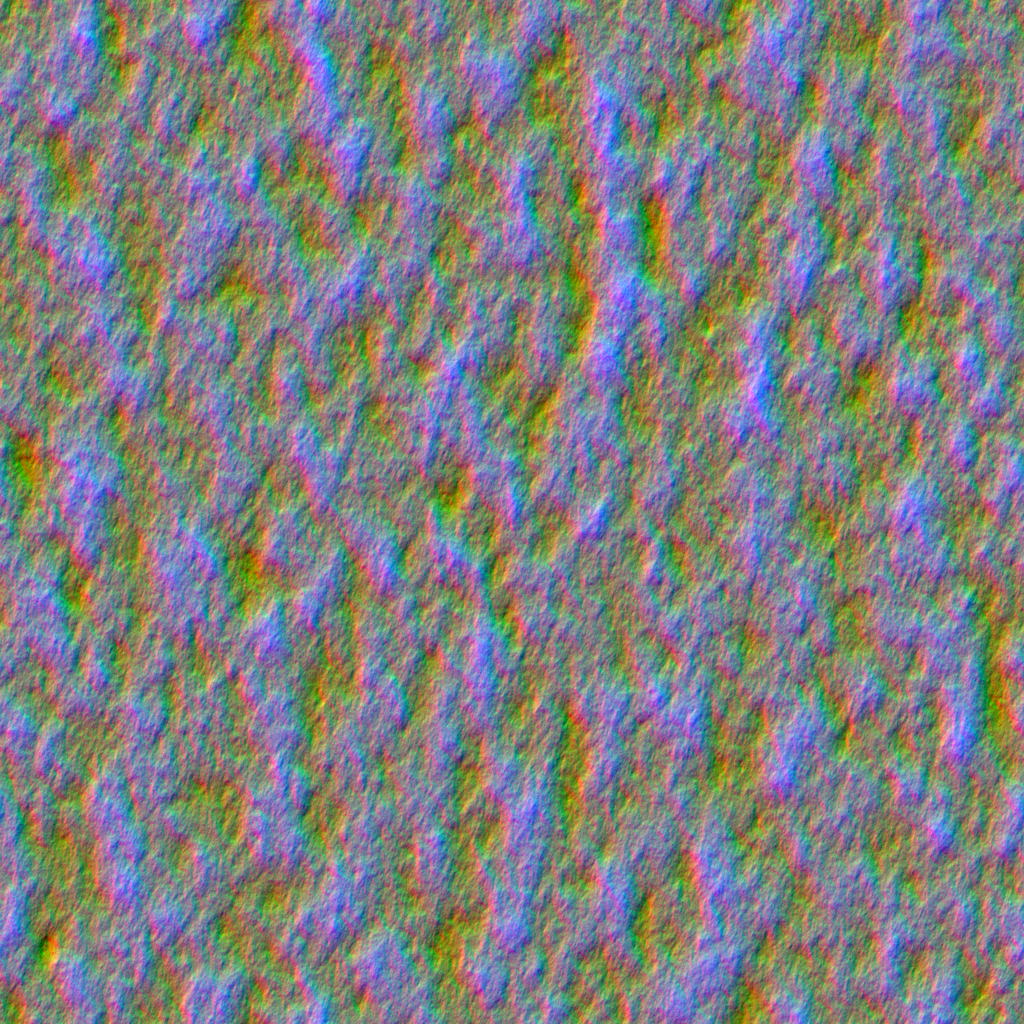
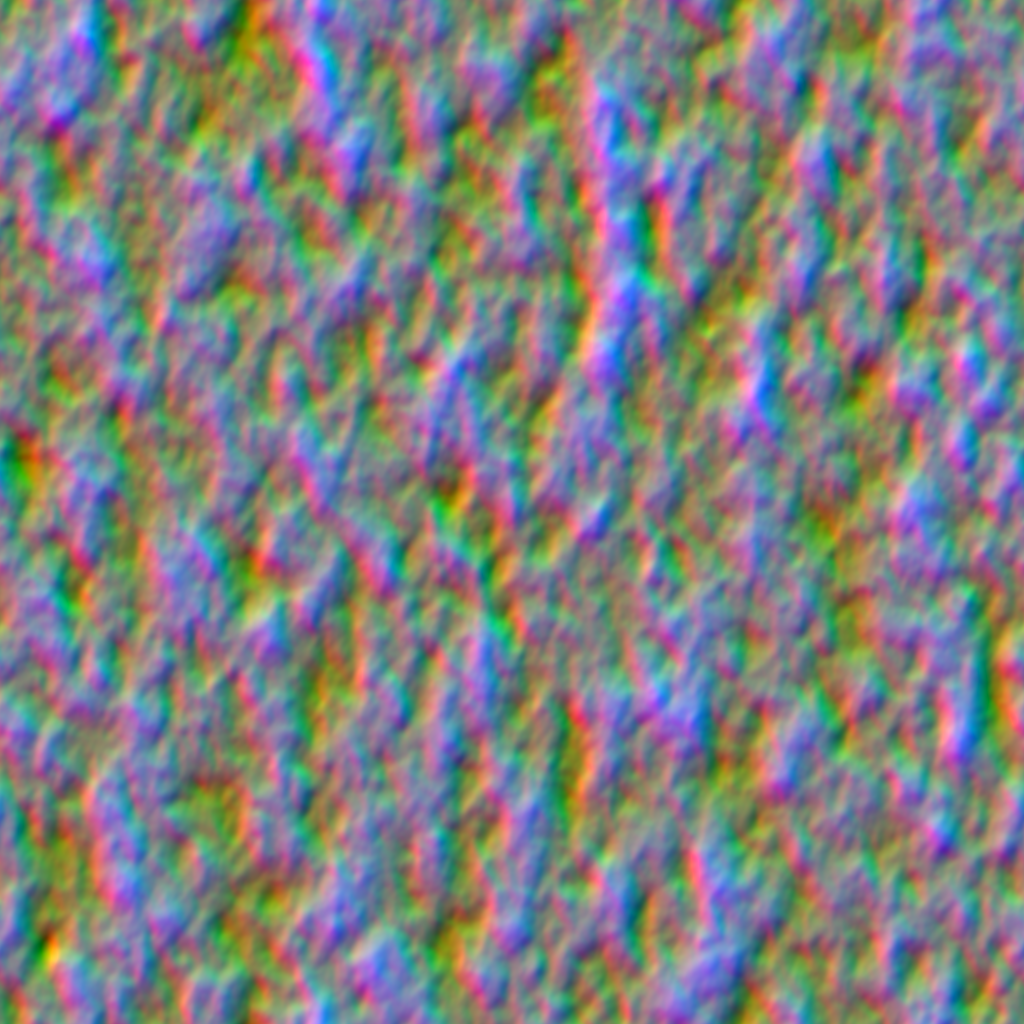
Animate ocean wave bands at dispersive speeds

diff --git a/Native/Tests/EarthRenderTests.mm b/Native/Tests/EarthRenderTests.mm
@@ -22,7 +22,7 @@ int main(){@autoreleasepool{
     MTKTextureLoader *loader=[[MTKTextureLoader alloc] initWithDevice:device];
     auto load=[&](NSString *path,bool srgb){id<MTLTexture> t=[loader newTextureWithContentsOfURL:[NSURL fileURLWithPath:[root stringByAppendingPathComponent:path]] options:@{MTKTextureLoaderOptionSRGB:@(srgb),MTKTextureLoaderOptionGenerateMipmaps:@YES,MTKTextureLoaderOptionOrigin:MTKTextureLoaderOriginTopLeft} error:&error];
         if(!t)fprintf(stderr,"Texture %s: %s\n",path.UTF8String,error.localizedDescription.UTF8String);require(t!=nil,"Texture load failed");return t;};
-    id<MTLTexture> earth=load(@"Native/Assets/earth-8k.jpg",true),cloudMap=load(@"Native/Assets/earth-clouds.png",false),ocean=load(@"Native/Assets/earth-ocean-mask.png",false),oceanWaves=load(@"Native/Assets/earth-waves.png",false);
+    id<MTLTexture> earth=load(@"Native/Assets/earth-8k.jpg",true),cloudMap=load(@"Native/Assets/earth-clouds.png",false),ocean=load(@"Native/Assets/earth-ocean-mask.png",false),oceanWaves=load(@"Native/Assets/earth-waves.png",false),oceanDetail=load(@"Native/Assets/earth-waves-detail.png",false);
     require(cloudMap.width==8192&&cloudMap.height==4096,"Cloud map must retain its 8K source detail");
     const NSUInteger width=NSProcessInfo.processInfo.environment[@"ORBITER_WIDE_PREVIEW"]?1280:640;
     const NSUInteger height=NSProcessInfo.processInfo.environment[@"ORBITER_WIDE_PREVIEW"]?800:640;
@@ -43,7 +43,7 @@ int main(){@autoreleasepool{
     id<MTLTexture> surfaceMask=ocean,activeCloudMap=cloudMap;
     auto render=[&](float coverage){f.clouds={1800,6500,coverage,0};id<MTLCommandBuffer> cb=[queue commandBuffer];
         MTLRenderPassDescriptor *pass=[MTLRenderPassDescriptor renderPassDescriptor];pass.colorAttachments[0].texture=scene;pass.colorAttachments[0].loadAction=MTLLoadActionClear;pass.colorAttachments[0].storeAction=MTLStoreActionStore;pass.depthAttachment.texture=depth;pass.depthAttachment.loadAction=MTLLoadActionClear;pass.depthAttachment.clearDepth=0;pass.depthAttachment.storeAction=MTLStoreActionStore;
-        id<MTLRenderCommandEncoder> e=[cb renderCommandEncoderWithDescriptor:pass];[e setDepthStencilState:depthState];[e setRenderPipelineState:sky];[e setFragmentBytes:&f length:sizeof(f) atIndex:1];[e setFragmentTexture:earth atIndex:0];[e setFragmentTexture:white atIndex:1];[e setFragmentTexture:white atIndex:2];[e setFragmentTexture:surfaceMask atIndex:3];[e setFragmentTexture:activeCloudMap atIndex:4];[e setFragmentTexture:oceanWaves atIndex:5];[e drawPrimitives:MTLPrimitiveTypeTriangle vertexStart:0 vertexCount:3];[e endEncoding];
+        id<MTLRenderCommandEncoder> e=[cb renderCommandEncoderWithDescriptor:pass];[e setDepthStencilState:depthState];[e setRenderPipelineState:sky];[e setFragmentBytes:&f length:sizeof(f) atIndex:1];[e setFragmentTexture:earth atIndex:0];[e setFragmentTexture:white atIndex:1];[e setFragmentTexture:white atIndex:2];[e setFragmentTexture:surfaceMask atIndex:3];[e setFragmentTexture:activeCloudMap atIndex:4];[e setFragmentTexture:oceanWaves atIndex:5];[e setFragmentTexture:oceanDetail atIndex:6];[e drawPrimitives:MTLPrimitiveTypeTriangle vertexStart:0 vertexCount:3];[e endEncoding];
         pass=[MTLRenderPassDescriptor renderPassDescriptor];pass.colorAttachments[0].texture=output;pass.colorAttachments[0].loadAction=MTLLoadActionClear;pass.colorAttachments[0].storeAction=MTLStoreActionStore;
         e=[cb renderCommandEncoderWithDescriptor:pass];[e setRenderPipelineState:composite];[e setFragmentBytes:&f length:sizeof(f) atIndex:0];[e setFragmentTexture:scene atIndex:0];[e setFragmentTexture:zero atIndex:1];[e setFragmentTexture:data atIndex:2];[e setFragmentTexture:depth atIndex:3];[e setFragmentTexture:activeCloudMap atIndex:4];[e setFragmentTexture:cloudNoise atIndex:5];[e drawPrimitives:MTLPrimitiveTypeTriangle vertexStart:0 vertexCount:3];[e endEncoding];[cb commit];[cb waitUntilCompleted];
         if(cb.error)fprintf(stderr,"Render error: %s\n",cb.error.localizedDescription.UTF8String);require(cb.error==nil,"Earth render failed");std::vector<unsigned char> pixels(width*height*4);[output getBytes:pixels.data() bytesPerRow:width*4 fromRegion:MTLRegionMake2D(0,0,width,height) mipmapLevel:0];return pixels;};
@@ -108,6 +108,9 @@ int main(){@autoreleasepool{
     surfaceMask=white;auto water1=render(0);f.environment.w=4;auto water2=render(0);
     size_t waves=0;for(size_t i=0;i<water1.size();i+=4)if(abs(int(water1[i])-int(water2[i]))>2)++waves;
     require(waves>1000,"Ocean waves must animate");
+    f.environment.w=86401;auto nextDay=render(0);size_t discontinuous=0;
+    for(size_t i=0;i<water1.size();i+=4)if(abs(int(water1[i])-int(nextDay[i]))>2)++discontinuous;
+    require(discontinuous<width*height/50,"Wave motion remains continuous when the daily visual clock wraps");
     surfaceMask=zero;f.environment.w=1;auto land1=render(0);f.environment.w=4;auto land2=render(0);
     require(land1==land2,"Animated waves must not affect land");
     surfaceMask=ocean;f.environment.w=1;auto mappedWater1=render(0);f.environment.w=4;auto mappedWater2=render(0);

diff --git a/Native/tools/generate_ocean_spectrum.py b/Native/tools/generate_ocean_spectrum.py
@@ -1,9 +1,10 @@
 #!/usr/bin/env python3
-"""Generate a seamless spectral ocean slope/height tile for the Metal water shader.
+"""Generate two seamless, directional ocean wave spectra for Metal.
 
-Usage: python3 generate_ocean_spectrum.py OUTPUT.png
-A fixed random seed and a directional, band-limited k^-4 spectrum make this
-reproducible. R/G store the two surface slopes; B stores wave height.
+Usage: python3 generate_ocean_spectrum.py LONG.png SHORT.png
+R/G store surface slopes and B stores wave height. The two bands and their
+scaled variants travel at distinct speeds in the shader. A fixed seed makes
+the generated assets reproducible.
 """
 import sys
 import numpy as np
@@ -11,23 +12,25 @@ from PIL import Image
 
 size, length = 1024, 16000.0
 rng = np.random.default_rng(2010)
-k = 2 * np.pi * np.fft.fftfreq(size, d=length / size)
-kx, ky = np.meshgrid(k, k)
-wave_number = np.hypot(kx, ky)
-safe = np.maximum(wave_number, 1e-9)
-long_cutoff, short_cutoff = 2*np.pi/1500, 2*np.pi/45
-# Wind direction is mostly east-west; opposing waves remain possible.
-directional = .12 + .88 * (kx/safe)**4
-power = np.exp(-(long_cutoff/safe)**2-(safe/short_cutoff)**2)*directional/safe**4
-power[0, 0] = 0
-spectrum = np.fft.fft2(rng.standard_normal((size,size))) * np.sqrt(power)
-height = np.fft.ifft2(spectrum).real
-dx = np.fft.ifft2(1j*kx*spectrum).real
-dy = np.fft.ifft2(1j*ky*spectrum).real
-# Each channel has room for rare large crests without clipping most waves.
-slope_scale = max(dx.std(), dy.std())*6
-channels = [np.clip(.5 + dx/slope_scale,0,1),
-            np.clip(.5 + dy/slope_scale,0,1),
-            np.clip(.5 + height/(height.std()*6),0,1)]
-pixels = np.uint8(np.round(np.stack(channels,axis=-1)*255))
-Image.fromarray(pixels).save(sys.argv[1],optimize=True)
+k = 2*np.pi*np.fft.fftfreq(size,d=length/size)
+kx,ky = np.meshgrid(k,k)
+wave_number = np.hypot(kx,ky)
+safe = np.maximum(wave_number,1e-9)
+directional = .12+.88*(kx/safe)**4
+
+for wavelength,path in [(800.0,sys.argv[1]),(180.0,sys.argv[2])]:
+    peak = 2*np.pi/wavelength
+    # Narrow, overlapping bands allow each scale to move at its own speed.
+    band = np.exp(-.5*(np.log(safe/peak)/.58)**2)
+    power = band*directional/safe**4
+    power[0,0] = 0
+    spectrum = np.fft.fft2(rng.standard_normal((size,size)))*np.sqrt(power)
+    height = np.fft.ifft2(spectrum).real
+    dx = np.fft.ifft2(1j*kx*spectrum).real
+    dy = np.fft.ifft2(1j*ky*spectrum).real
+    slope_scale = max(dx.std(),dy.std())*6
+    channels = [np.clip(.5+dx/slope_scale,0,1),
+                np.clip(.5+dy/slope_scale,0,1),
+                np.clip(.5+height/(height.std()*6),0,1)]
+    pixels = np.uint8(np.round(np.stack(channels,axis=-1)*255))
+    Image.fromarray(pixels).save(path,optimize=True)

diff --git a/Native/macOS/NativeVisuals.mm b/Native/macOS/NativeVisuals.mm
@@ -15,7 +15,7 @@ struct SmokeDraw {TrailSegmentUniforms segment;float depth;};
     FrameUniforms lastFrame;
     double lastElapsed;
     NSInteger lastWeather;
-    id<MTLTexture> hdr,lit,depth,trailLayer,msaaColor,msaaDepth,earthCloudMap,earthOceanMask,earthOceanWaves;
+    id<MTLTexture> hdr,lit,depth,trailLayer,msaaColor,msaaDepth,earthCloudMap,earthOceanMask,earthOceanWaves,earthOceanWaveDetail;
     std::array<id<MTLTexture>,2> cloudHistory,cloudData,bloom;
     std::array<id<MTLBuffer>,3> smokeBuffers;
     ExhaustTrail exhaustTrail;
@@ -39,6 +39,9 @@ struct SmokeDraw {TrailSegmentUniforms segment;float depth;};
     NSURL *waveURL=[NSURL fileURLWithPath:[NSBundle.mainBundle.resourcePath stringByAppendingPathComponent:@"earth-waves.png"]];
     earthOceanWaves=[loader newTextureWithContentsOfURL:waveURL options:@{MTKTextureLoaderOptionSRGB:@NO,MTKTextureLoaderOptionGenerateMipmaps:@YES,MTKTextureLoaderOptionOrigin:MTKTextureLoaderOriginTopLeft} error:&error];
     visualCheck(earthOceanWaves,error);
+    NSURL *detailURL=[NSURL fileURLWithPath:[NSBundle.mainBundle.resourcePath stringByAppendingPathComponent:@"earth-waves-detail.png"]];
+    earthOceanWaveDetail=[loader newTextureWithContentsOfURL:detailURL options:@{MTKTextureLoaderOptionSRGB:@NO,MTKTextureLoaderOptionGenerateMipmaps:@YES,MTKTextureLoaderOptionOrigin:MTKTextureLoaderOriginTopLeft} error:&error];
+    visualCheck(earthOceanWaveDetail,error);
     auto kernel=[&](NSString *name){id<MTLComputePipelineState> p=[gpu newComputePipelineStateWithFunction:[library newFunctionWithName:name] error:&error];visualCheck(p,error);return p;};
     noiseKernel=kernel(@"makeCloudNoise");shadowKernel=kernel(@"cloudShadowMap");cloudKernel=kernel(@"marchClouds");
     extractKernel=kernel(@"extractBloom");blurKernel=kernel(@"blurBloom");
@@ -197,6 +200,7 @@ struct SmokeDraw {TrailSegmentUniforms segment;float depth;};
 - (id<MTLTexture>)satelliteClouds {return earthCloudMap;}
 - (id<MTLTexture>)oceanMask {return earthOceanMask;}
 - (id<MTLTexture>)oceanWaves {return earthOceanWaves;}
+- (id<MTLTexture>)oceanWaveDetail {return earthOceanWaveDetail;}
 - (NSUInteger)liveTrailPuffCount {return exhaustTrail.puffs().size();}
 - (NSString *)weatherName{return @[@"Clear",@"Scattered",@"Overcast",@"Storm",@"Regional"][_weather];}
 - (void)reset {historyValid=NO;haveFlight=NO;exhaustTrail.reset();}

diff --git a/Native/macOS/App.mm b/Native/macOS/App.mm
@@ -520,7 +520,7 @@ static void line(CGFloat x,CGFloat y,CGFloat x2,CGFloat y2,NSColor *color,CGFloa
     [encoder setFragmentBytes:&uniforms length:sizeof(uniforms) atIndex:1]; [encoder setFragmentTexture:[solar textureForBody:flight.reference] atIndex:0];
     [encoder setFragmentTexture:solar.rings atIndex:2];
     [encoder setFragmentTexture:visuals.cloudShadows atIndex:1];
-    [encoder setFragmentTexture:[visuals oceanMask] atIndex:3];[encoder setFragmentTexture:[visuals satelliteClouds] atIndex:4];[encoder setFragmentTexture:[visuals oceanWaves] atIndex:5];
+    [encoder setFragmentTexture:[visuals oceanMask] atIndex:3];[encoder setFragmentTexture:[visuals satelliteClouds] atIndex:4];[encoder setFragmentTexture:[visuals oceanWaves] atIndex:5];[encoder setFragmentTexture:[visuals oceanWaveDetail] atIndex:6];
     [encoder drawPrimitives:MTLPrimitiveTypeTriangle vertexStart:0 vertexCount:3];
     [encoder setDepthStencilState:depthState];
     [solar encodeBodies:encoder frame:uniforms flight:flight offset:offset];

diff --git a/Native/macOS/NativeVisuals.h b/Native/macOS/NativeVisuals.h
@@ -9,6 +9,7 @@
 - (id<MTLTexture>)satelliteClouds;
 - (id<MTLTexture>)oceanMask;
 - (id<MTLTexture>)oceanWaves;
+- (id<MTLTexture>)oceanWaveDetail;
 @property(nonatomic,readonly) NSUInteger cloudWidth,cloudHeight,emitterCount;
 @property(nonatomic,readonly) MTLRenderPassDescriptor *scenePass;
 - (instancetype)initWithDevice:(id<MTLDevice>)device library:(id<MTLLibrary>)library queue:(id<MTLCommandQueue>)queue samples:(NSUInteger)samples;

diff --git a/Native/README.md b/Native/README.md
@@ -65,7 +65,7 @@ The application now renders the 8K NASA Earth map, volumetric clouds, cloud shad
 
 Earth's sky and aerial haze use an approximate wavelength-dependent Rayleigh/Mie scattering model with a brighter HDR Sun and atmospheric attenuation. The light model is an approximation, not a full multiple-scattering simulation.
 
-The geographic ocean mask adds animated, wind-strength-dependent wave shading, sun glints and storm foam near the surface. A reproducible directional wave spectrum supplies irregular, mipmapped surface detail without a per-frame fluid simulation. It fades out at distance and filters subpixel waves to limit shimmer. These are shaded waves on the existing spherical surface, not displaced water geometry or a fluid simulation.
+The geographic ocean mask adds animated, wind-strength-dependent wave shading, sun glints and storm foam near the surface. Reproducible directional wave spectra supply irregular, mipmapped surface detail. Four independently moving bands approximate faster swells and slower chop, without a per-frame fluid simulation. It fades out at distance and filters subpixel waves to limit shimmer. These are shaded waves on the existing spherical surface, not displaced water geometry or a fluid simulation.
 
 Clouds occupy a spherical layer above Earth. A GPU-generated 128³ Perlin/Worley noise volume shapes nearby clouds, with sun attenuation, scattering and ground shadows. This volume uses 48 primary samples and four sun samples, up to 760 pixels wide, temporal reprojection and depth-aware reconstruction. From 40–120 km it transitions to an 8192 × 4096 satellite cloud snapshot with procedural fine detail; above 120 km the expensive volume march is skipped. The map is a fixed 2026 snapshot, not live weather, and its polar regions are mirrored. Spacecraft geometry, cockpit instruments and HUD remain at full output resolution. Camera cuts, resize, scenario changes and weather changes invalidate the history.
 
